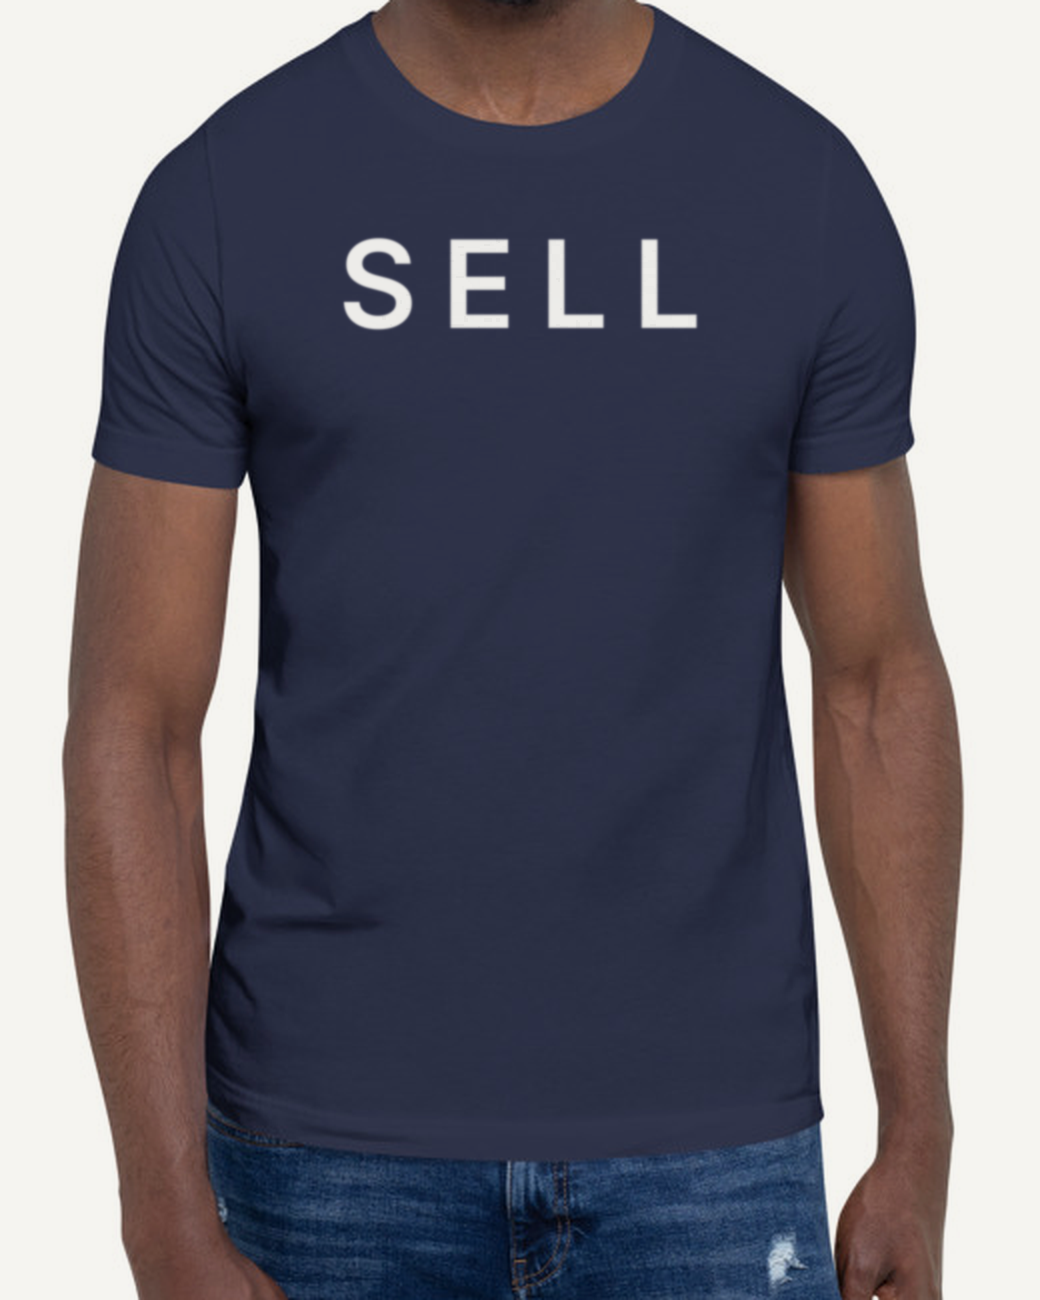
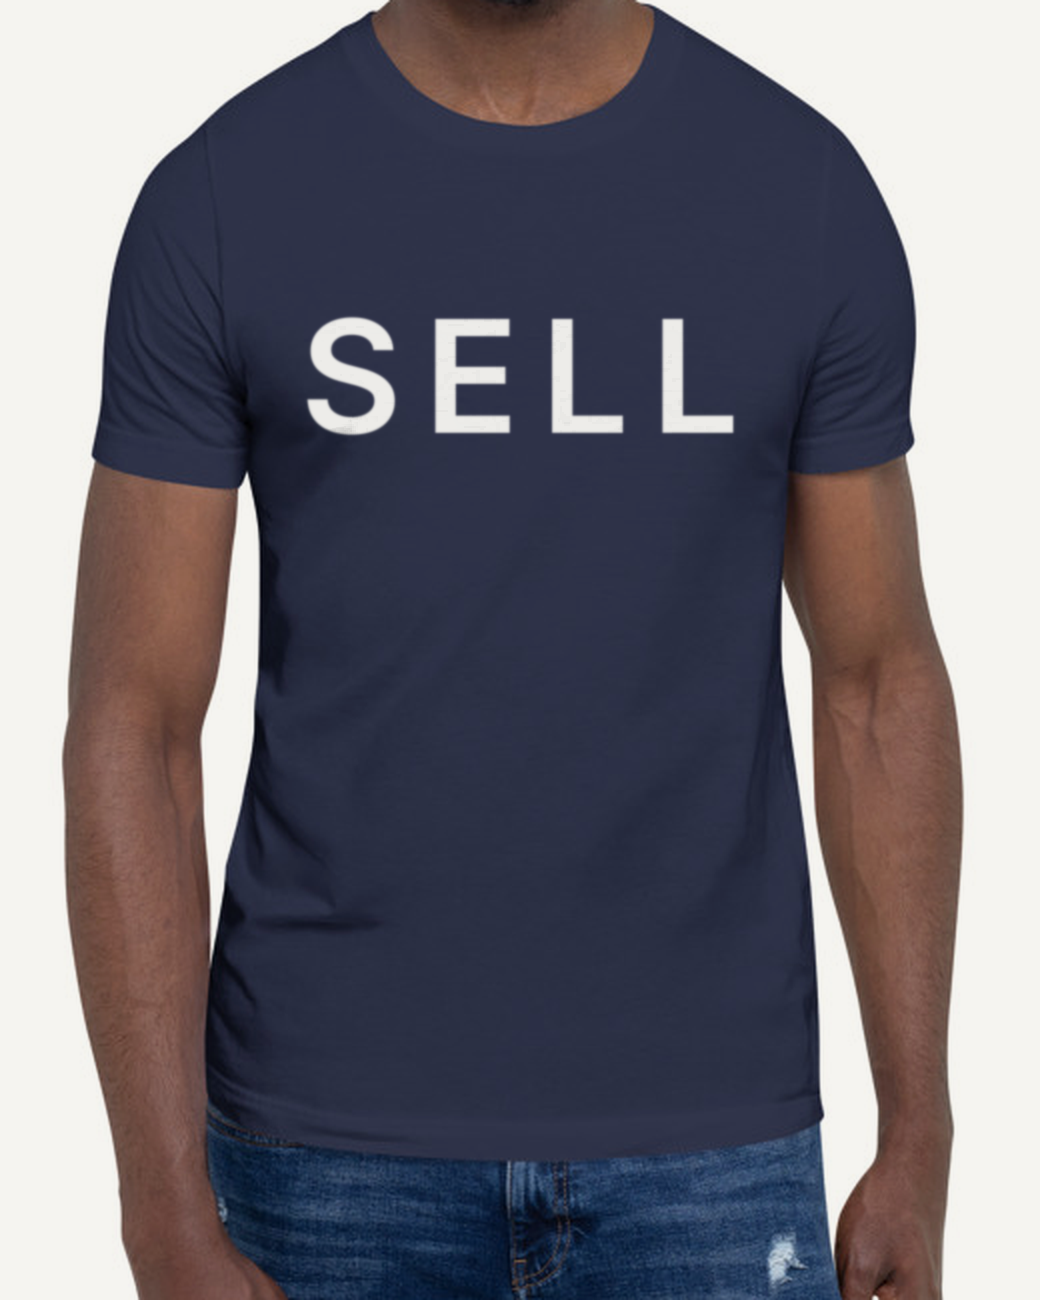
Bigger SELL at mid-chest
- SELL's ink now spans ~11.5" of the 12" print area with tighter
  tracking (taller letters), starting ~4.3" down the print area
- Composite photos scale the print by the shirt's length, which faces
  the camera, instead of its wrapped width
- ART_VERSION 3

Changed region(s): [[0.2769, 0.1846, 0.4923, 0.3385], [0.5231, 0.1846, 0.7077, 0.3385]]

diff --git a/app/api/print/[slug]/route.tsx b/app/api/print/[slug]/route.tsx
@@ -7,8 +7,8 @@ import { getTeam } from "@/lib/teams";
 // background. The art is the same for every team; only the shirt color changes.
 const W = 1800;
 const H = 2400;
-const ART_WIDTH = 1650; // SELL spans 11" of the 12" print area
-const CAP_TOP = 375; // letters start 2.5" into the print area: mid-chest
+const ART_WIDTH = 1780; // SELL's ink spans ~11.5" of the 12" print area
+const CAP_TOP = 640; // letters start ~4.3" into the print area: mid-chest
 
 export async function GET(_req: Request, { params }: { params: Promise<{ slug: string }> }) {
   const team = getTeam((await params).slug.replace(/\.png$/, ""));

diff --git a/components/PrintArt.tsx b/components/PrintArt.tsx
@@ -10,7 +10,7 @@ export const INK = "#FFFFFF";
 const ADVANCE: Record<string, number> = { S: 0.65, E: 0.605, L: 0.565 };
 // With lineHeight 1, Inter's cap height (0.7275em) sits 0.136em below the top of the box.
 export const CAP_INSET = 0.136;
-const TRACK = 0.2; // em between letters
+const TRACK = 0.14; // em between letters
 
 // Font size that makes "SELL" `width` px wide, from the first letter's edge to the last.
 export function wordSize(width: number): number {

diff --git a/lib/art.ts b/lib/art.ts
@@ -1,4 +1,4 @@
 // Bump when the shirt artwork or photos change: Printful caches print files by
 // URL and next/image caches optimized photos by URL, so a new number makes
 // both fetch fresh copies.
-export const ART_VERSION = 2;
+export const ART_VERSION = 3;

diff --git a/scripts/composite-mockups.py b/scripts/composite-mockups.py
@@ -23,10 +23,11 @@ from scipy.ndimage import gaussian_filter, map_coordinates
 ROOT = Path(__file__).resolve().parent.parent
 BASE_URL = os.environ.get("BASE_URL", "http://localhost:3000").rstrip("/")
 
-# Printful's catalog photos all share one model and pose (700x1000). Measured on
-# that photo: the shirt's front (~16" of a size M, the rest wraps around the
-# body) spans ~265px, and the neckline is at x=348, y=307.
-PX_PER_IN = 16.5
+# Printful's catalog photos all share one model and pose (700x1000). The chest
+# faces the camera, so the print scales like the shirt's length: neckline
+# (x=348, y=307) to hem is ~25.5" of a size M over 508px, a little less
+# toward the sides where the shirt wraps around the body.
+PX_PER_IN = 18.5
 NECK = (348, 307)
 PRINT_DROP_IN = 1.0  # top of the 12"x16" print area below the neckline
 CROP = (88, 245, 608, 895)  # torso, 4:5
